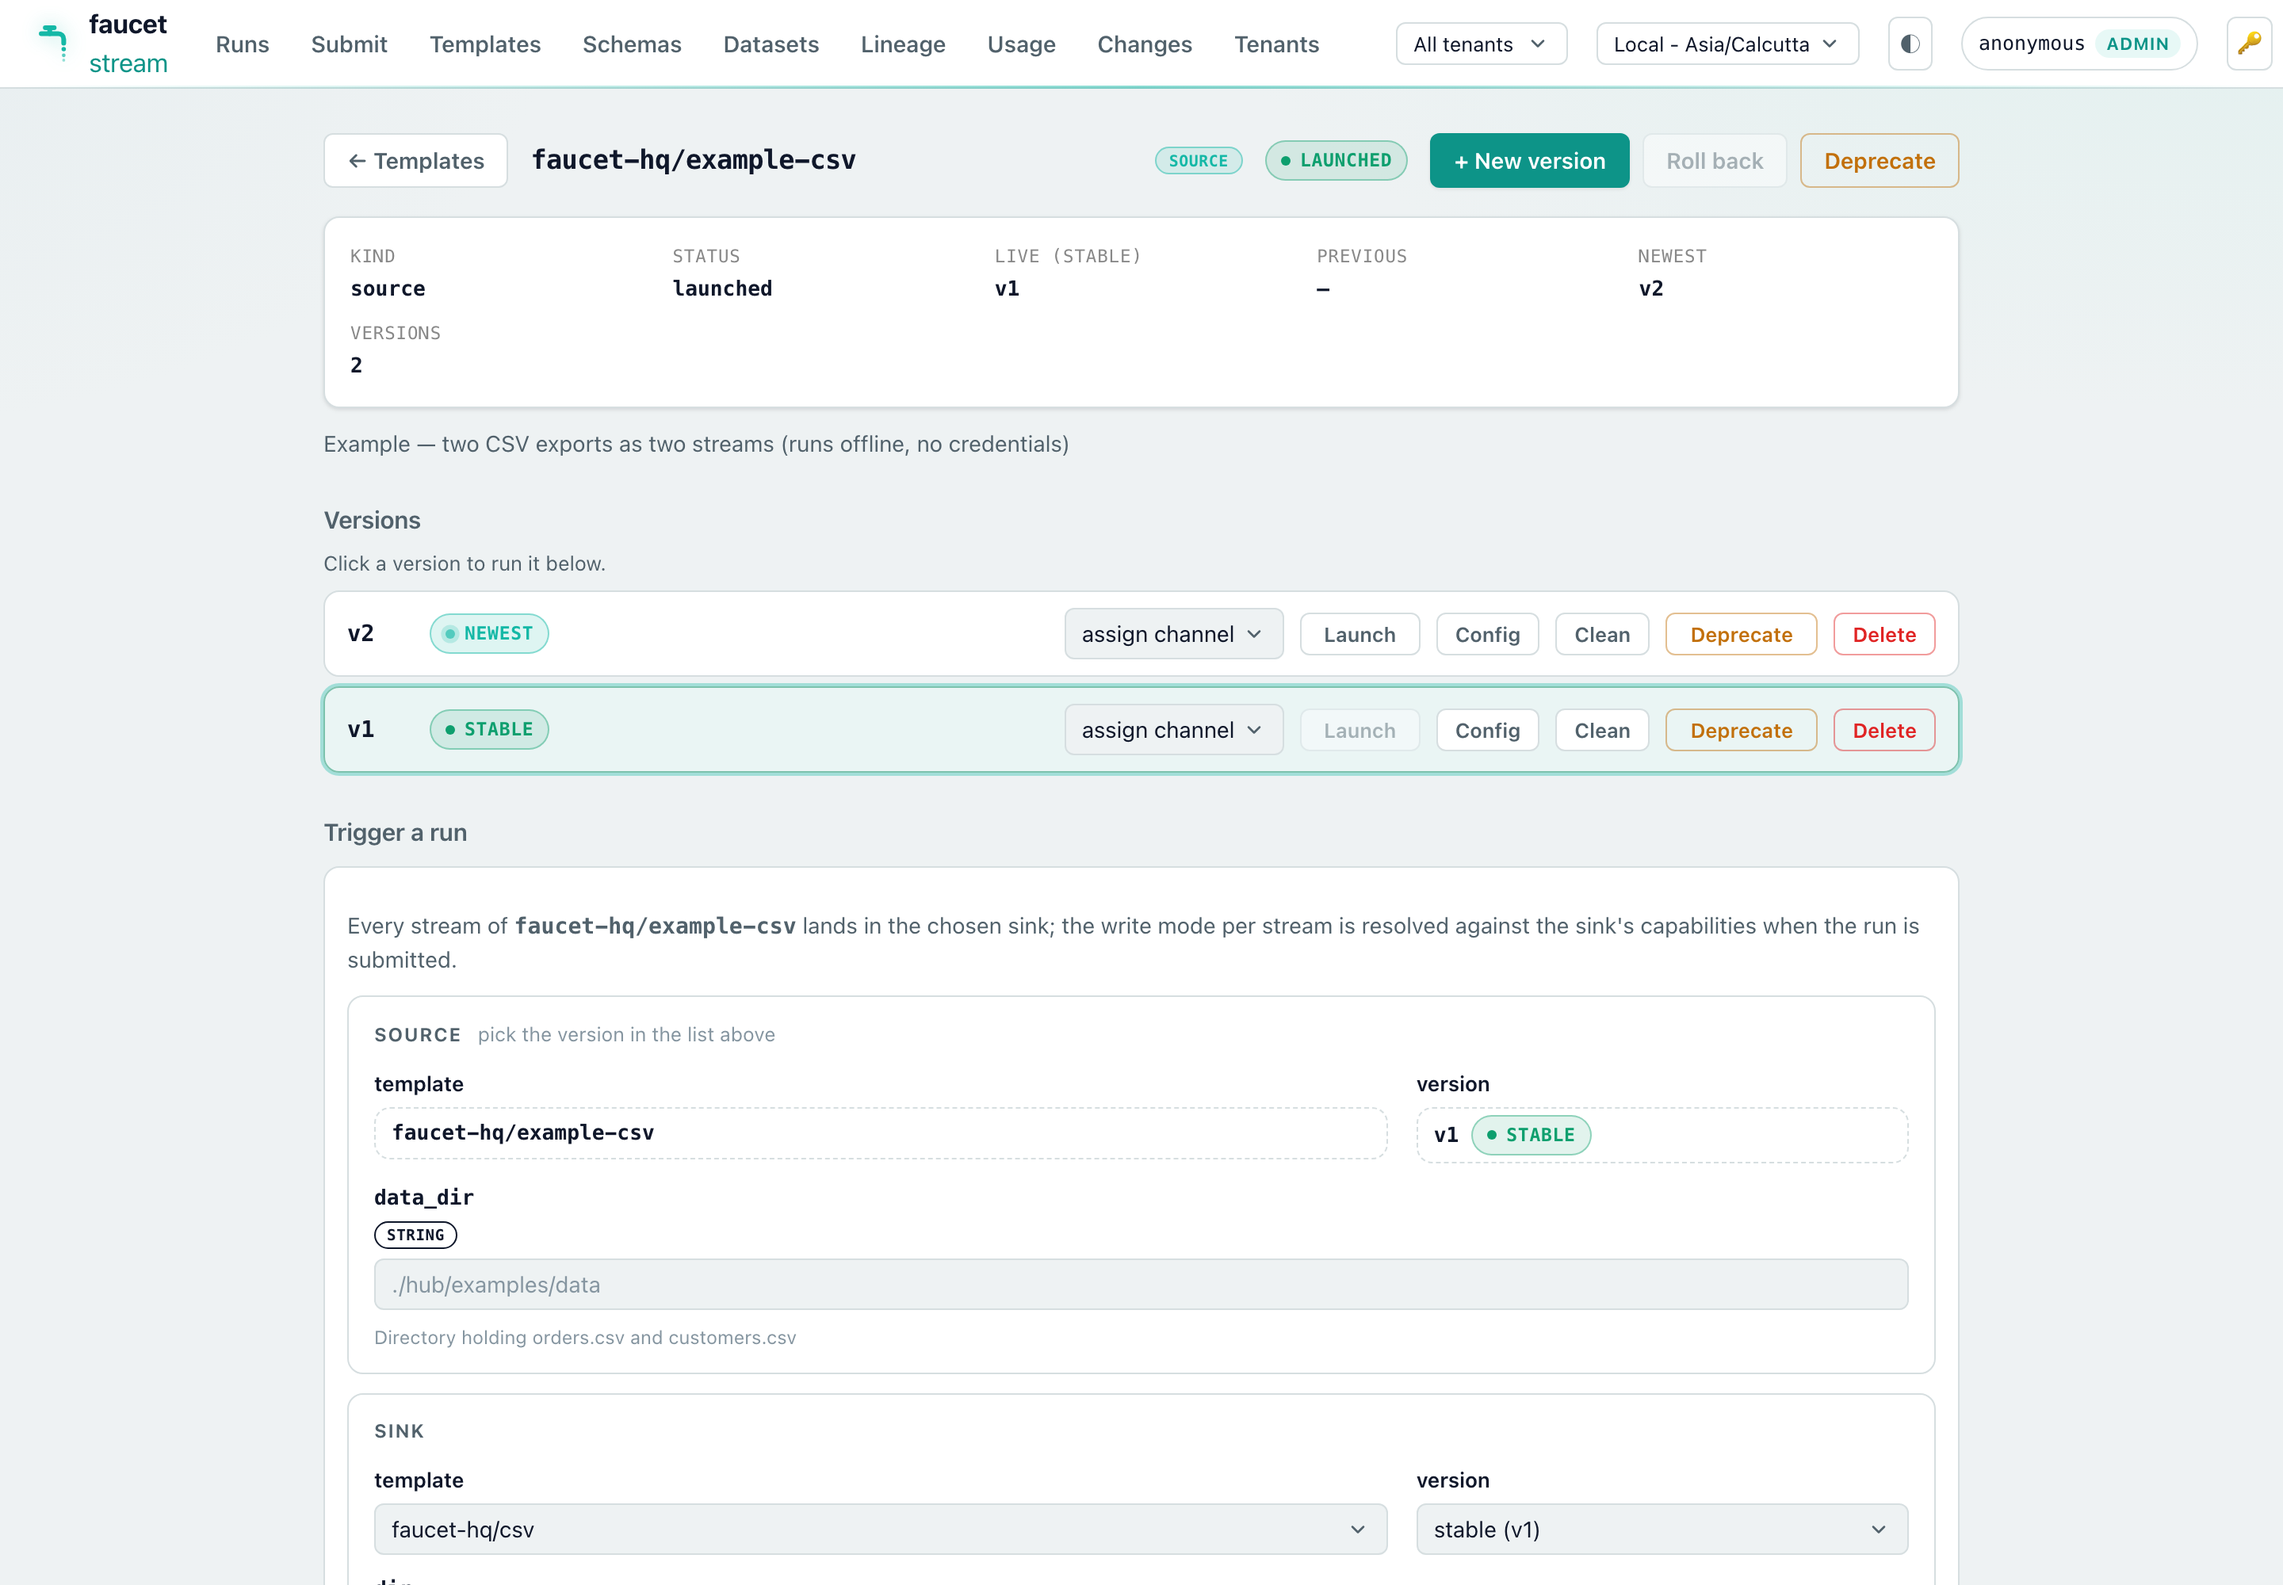
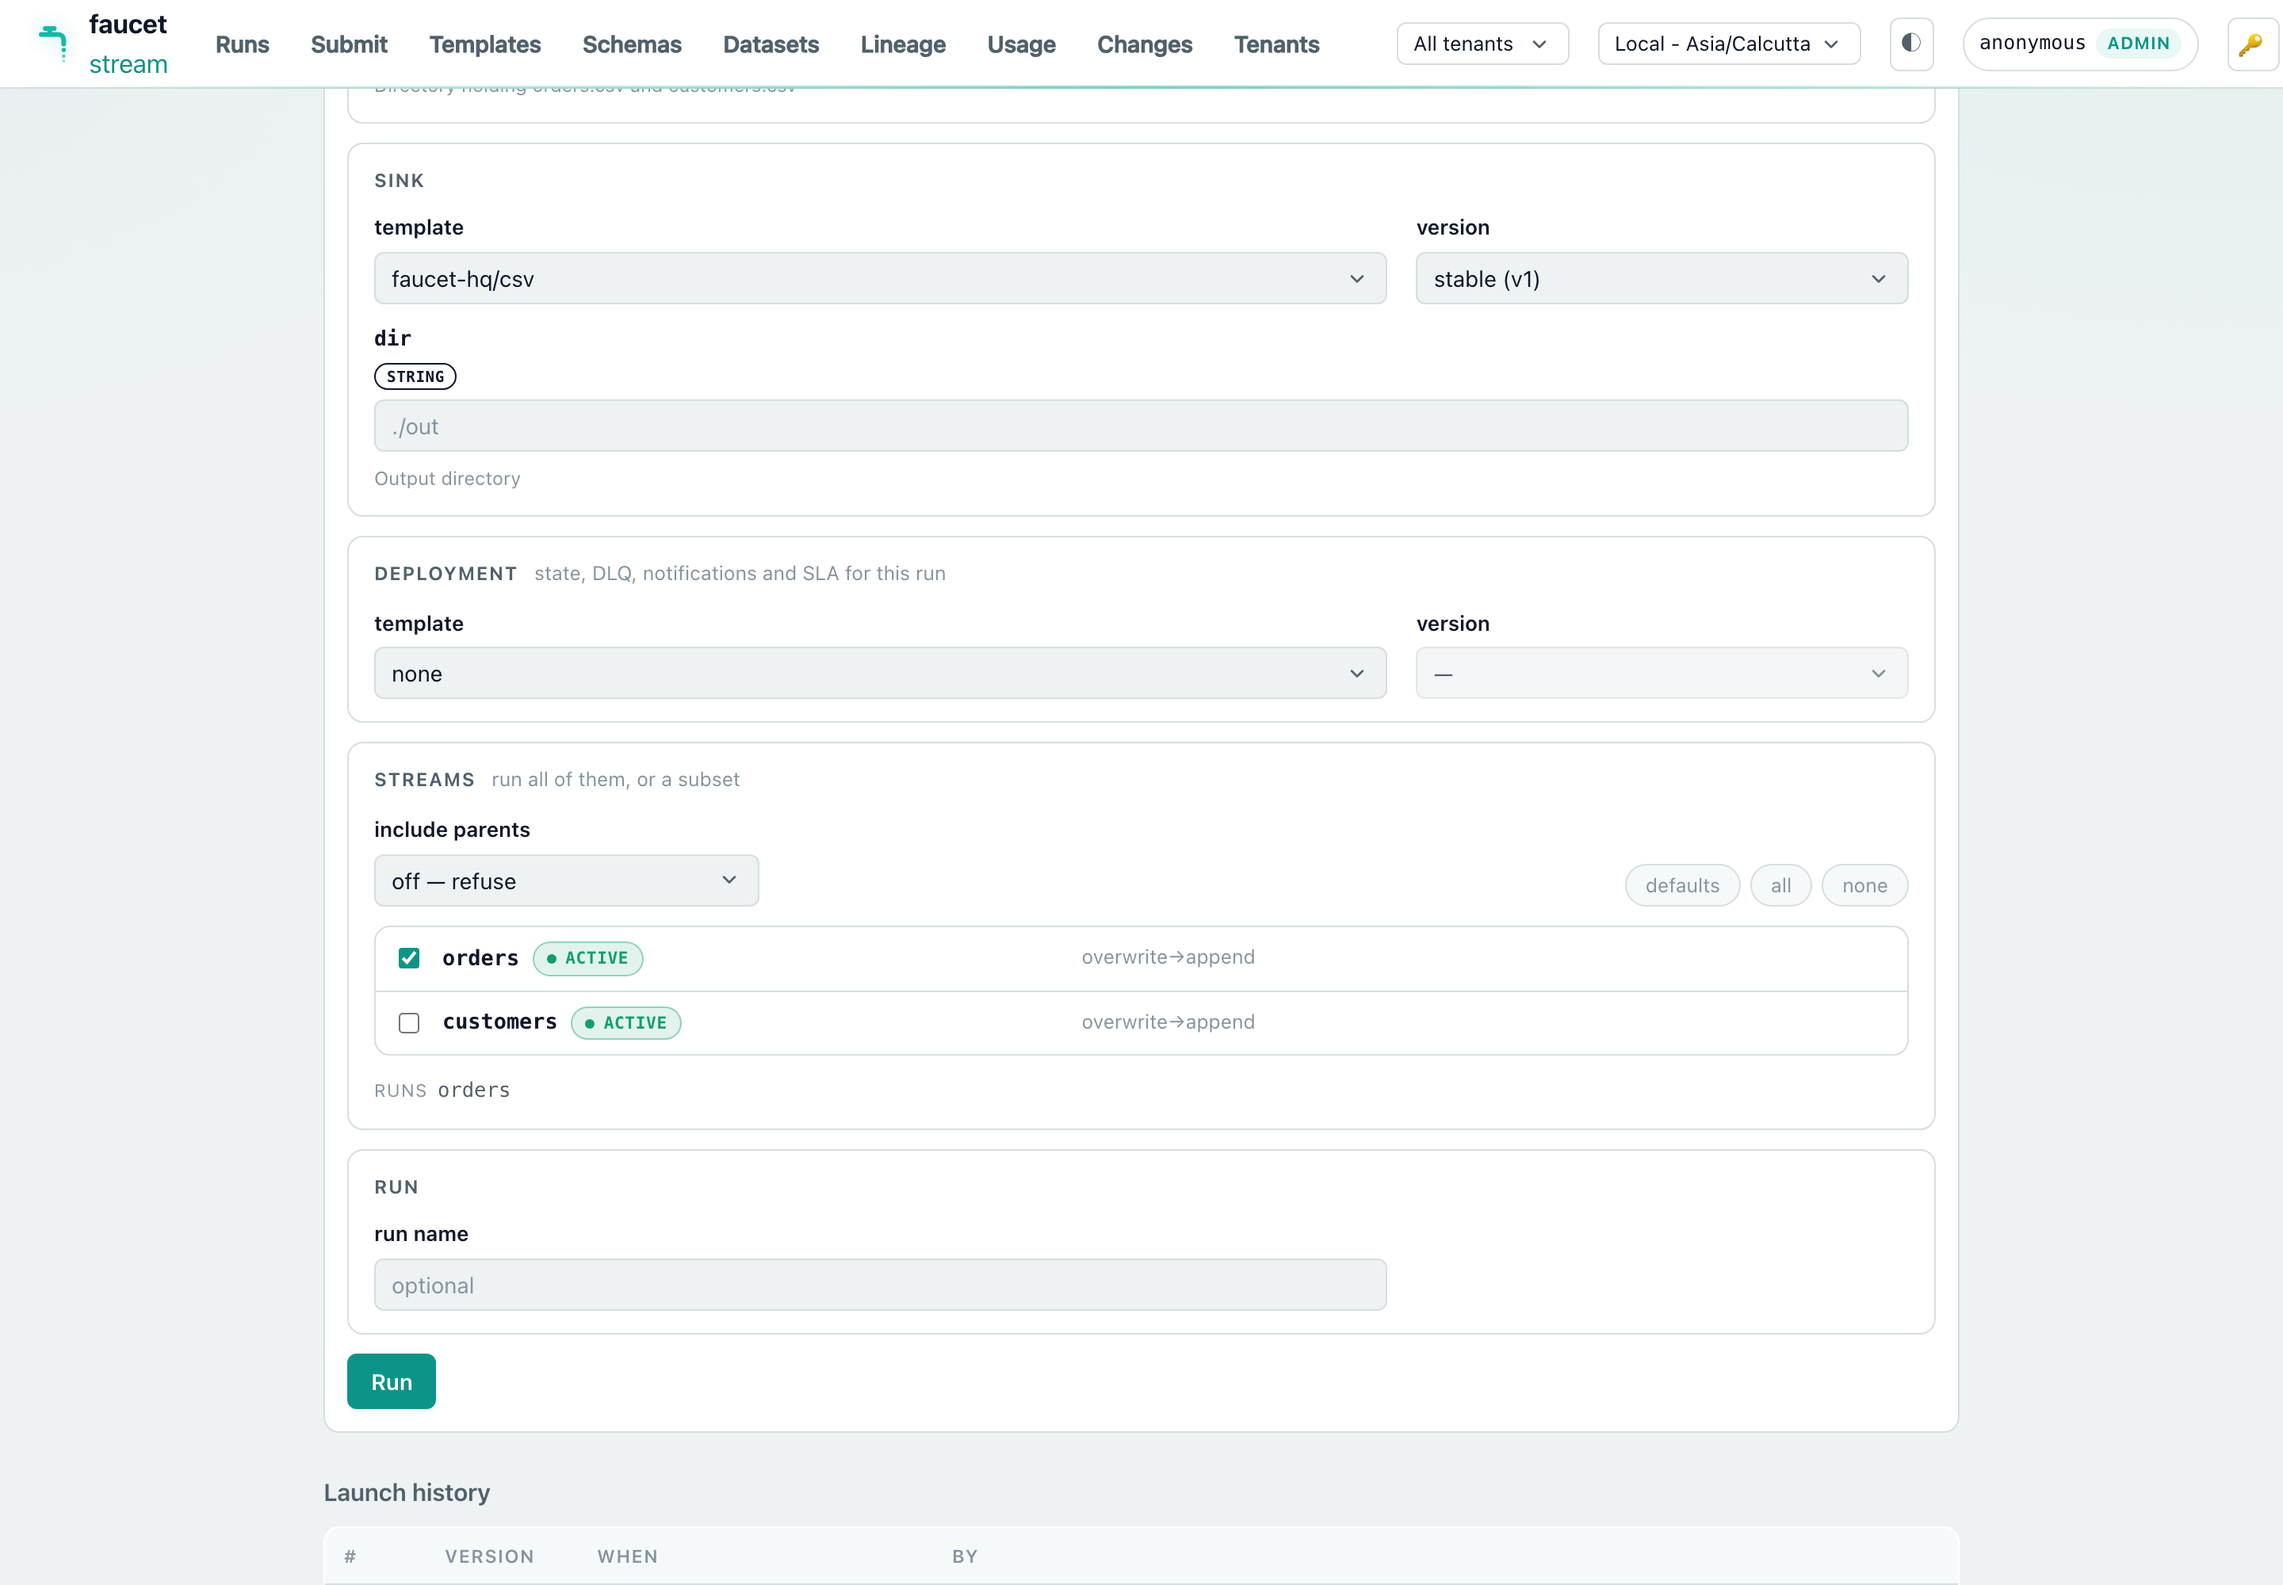
docs(console): regenerate the source-template trigger screenshot with the Streams picker (#741)

diff --git a/docs/book/src/cookbook/web-console.md b/docs/book/src/cookbook/web-console.md
@@ -173,7 +173,18 @@ to the run; its params join the form tagged `deployment`. A **sink template**'s
 or **deployment**'s page has no trigger form; it lists the source templates it
 can be used with.
 
-![The versions page for the example-csv source template: the trigger form with a sink-template dropdown, sink version and deployment selector beside the source's own params, the sink's param tagged](../assets/console/template-source-detail.png)
+Below the params, a **Streams** section (**Rows** for a pipeline template with
+a `matrix:`) lists what the run can include, from
+`GET /v1/templates/{id}/rows`: each stream with its status, tags, parent /
+dependency and the write mode it resolves to on the chosen sink. Rows a bare
+run would pick are checked; a stream the sink cannot run is disabled with the
+reason. **include parents** (`off` / `eligible` / `all`) decides what happens
+to a checked child whose parent is not checked — the rows it would pull in are
+highlighted, a blocked one says why — and the line under the list previews the
+run set the server resolves before you press **Run**. See
+[Running a subset of streams](./templates.md#running-a-subset-of-streams).
+
+![The trigger form of the example-csv source template, scrolled to the sink-template picker, the deployment selector and the Streams section: orders checked, customers unchecked, both resolving overwrite→append on the csv sink, include parents set to off, and the resolved run set "orders"](../assets/console/template-source-detail.png)
 
 When the server was started with `--templates-sync`, the Templates page also
 shows **Sync from origins**: the configured remote origins (repo or bucket,
